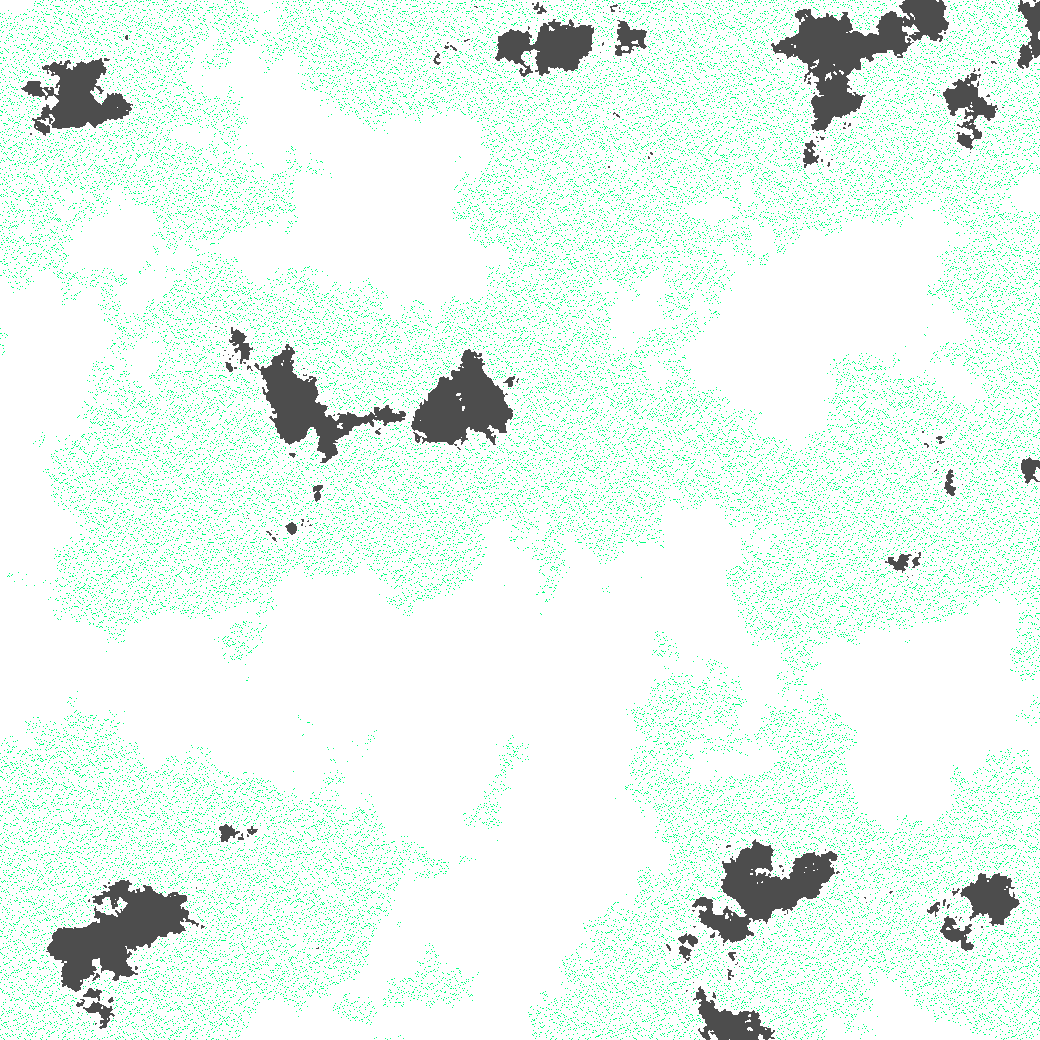
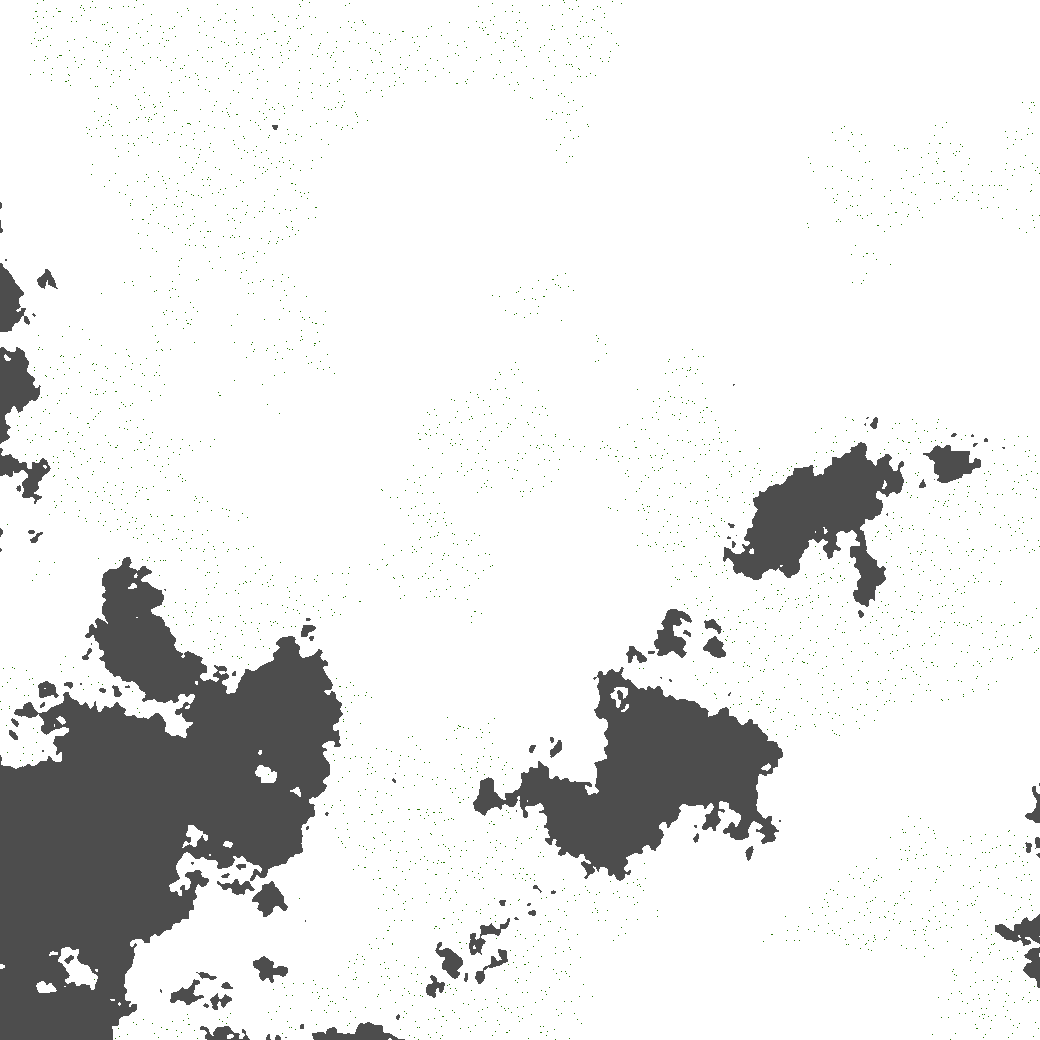
added more biomes

diff --git a/Mine-Around/Assets/Scripts/Noise/NoiseSettings.cs b/Mine-Around/Assets/Scripts/Noise/NoiseSettings.cs
@@ -1,5 +1,6 @@
 using UnityEngine;
 using System;
+using Unity.VisualScripting;
 
 [CreateAssetMenu(fileName = "NoiseSettings", menuName = "WorldDataObject/NoiseSettings")]
 public class NoiseSettings : DatabaseAsset
@@ -50,6 +51,10 @@ public class NoiseSettings : DatabaseAsset
     [Min(0f)]
     [SerializeField] private float domainWarpLacunarity = 2f;
     [SerializeField] private float domainWarpGain = 0.5f;
+
+    [Header("Optimized Cache")]
+    private Vector2Int lastPos;
+    private float lastVal;
 
     /// <summary>
     /// Creates a FastNoiseLite instance configured for regular noise sampling.
@@ -103,7 +108,7 @@ public class NoiseSettings : DatabaseAsset
         noise.SetFractalGain(domainWarpGain);
     }
 
-    public float Sample(int worldX, int worldY)
+    public float Sample(Vector2Int location)
     {
 
         if (noise == null)
@@ -112,19 +117,27 @@ public class NoiseSettings : DatabaseAsset
             return 0f;
         }
 
-        float x = worldX + offsetX;
-        float y = worldY + offsetY;
+        if(lastPos == location)
+        {
+            return lastVal;
+        }
+        lastPos = location;
+
+        float x = location.x + offsetX;
+        float y = location.y + offsetY;
 
         if (domainWarp)
         {
             if (warpNoise == null)
             {
                 Debug.LogError($"NoiseSettings '{name}' has domain warp enabled but warpNoise was not created.", this);
-                return noise.GetNoise(x, y);
+                lastVal = noise.GetNoise(x, y);
+                return lastVal;
             }
 
             warpNoise.DomainWarp(ref x, ref y);
         }
-        return noise.GetNoise(x, y);
+        lastVal = noise.GetNoise(x, y);
+        return lastVal;
     }
 }

diff --git a/Mine-Around/Assets/Scripts/FractalGen/NoiseTarget.cs b/Mine-Around/Assets/Scripts/FractalGen/NoiseTarget.cs
@@ -12,12 +12,12 @@ public class NoiseTarget
 
     public bool IsValid => noise != null && strength > 0f;
 
-    public float GetStrength(int x, int y)
+    public float GetStrength(Vector2Int location)
     {
         if (noise == null || strength <= 0f)
             return 0f;
 
-        float sample = noise.Sample(x, y);
+        float sample = noise.Sample(location);
         float difference = Mathf.Abs(sample - noiseTarget);
         float similarity = Mathf.Clamp01(1f - difference);
 

diff --git a/Mine-Around/Assets/Scripts/BloxelData/BloxelBase.cs b/Mine-Around/Assets/Scripts/BloxelData/BloxelBase.cs
@@ -15,9 +15,11 @@ public class BloxelBase : DatabaseAsset
     [Header("Rendering")]
     [SerializeField] private Color mapColor = Color.white;
     [SerializeField] private bool isTransparent;
+    [SerializeField] private bool isInvisible;
 
     public Color MapColor => mapColor;
     public bool IsTransparent => isTransparent;
+    public bool IsInvisible => isInvisible;
 
     public TileBase GetLayerTile(Vector2Int position, BloxelLayer bloxelLayer)
     {

diff --git a/Mine-Around/Assets/Scripts/FractalGen/NoiseRangeCondition.cs b/Mine-Around/Assets/Scripts/FractalGen/NoiseRangeCondition.cs
@@ -16,7 +16,7 @@ public class NoiseRangeCondition
 
         float min = Mathf.Min(minValue, maxValue);
         float max = Mathf.Max(minValue, maxValue);
-        float sample = noise.Sample(context.Position.x, context.Position.y);
+        float sample = noise.Sample(context.Position);
 
         bool inside = sample >= min && sample <= max;
         return invert ? !inside : inside;

diff --git a/Mine-Around/Assets/Scripts/Editors/WorldPreviewer.cs b/Mine-Around/Assets/Scripts/Editors/WorldPreviewer.cs
@@ -101,7 +101,7 @@ public class WorldPreviewer : MonoBehaviour
 
                 floorPixels[index] = floor.MapColor;
                 wallPixels[index] = wall.MapColor;
-                combinedPixels[index] = wall.IsTransparent
+                combinedPixels[index] = wall.IsInvisible
                     ? floor.MapColor
                     : wall.MapColor;
             }

diff --git a/Mine-Around/Assets/Scripts/FractalGen/NoiseSimilarityCondition.cs b/Mine-Around/Assets/Scripts/FractalGen/NoiseSimilarityCondition.cs
@@ -22,7 +22,7 @@ public class NoiseSimilarityCondition
                 continue;
 
             totalWeight += target.Strength;
-            totalScore += target.GetStrength(context.Position.x, context.Position.y);
+            totalScore += target.GetStrength(context.Position);
         }
 
         if (totalWeight <= Mathf.Epsilon)

diff --git a/Mine-Around/Assets/Scripts/FractalGen/FactalWorldLayer.cs b/Mine-Around/Assets/Scripts/FractalGen/FactalWorldLayer.cs
@@ -51,8 +51,7 @@ public class FactalWorldLayer : ScriptableObject
             return;
 
         float sample = noise.Sample(
-            context.Position.x,
-            context.Position.y);
+            context.Position);
 
         FactalWorldLayer selected = SelectSubLayer(sample);
 
